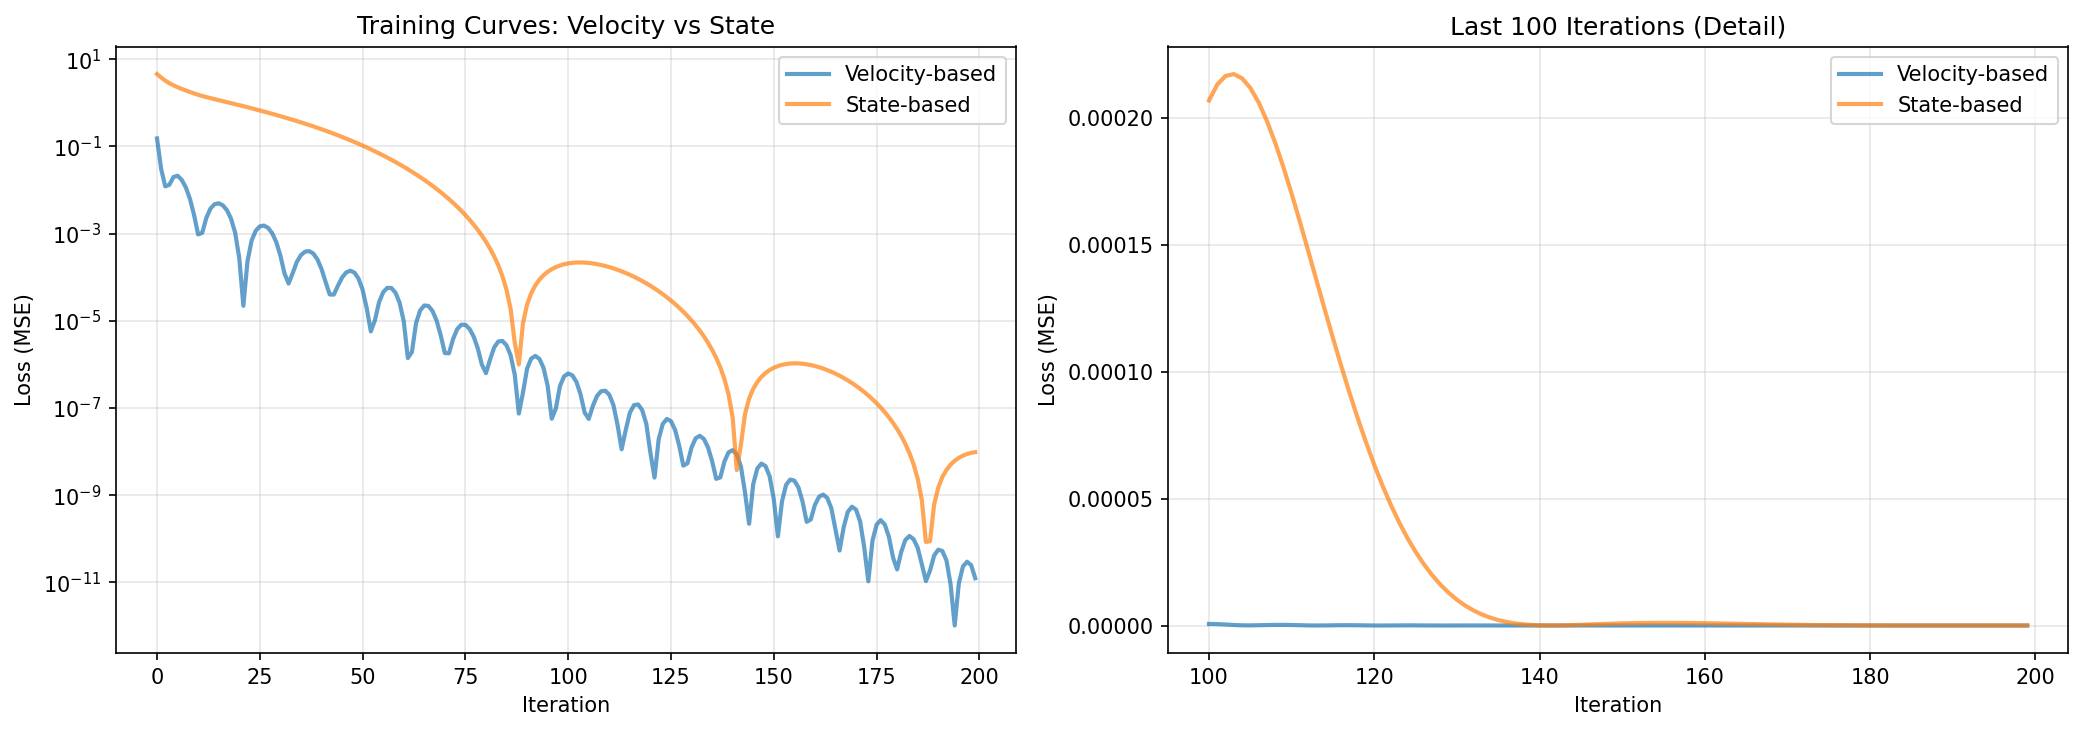
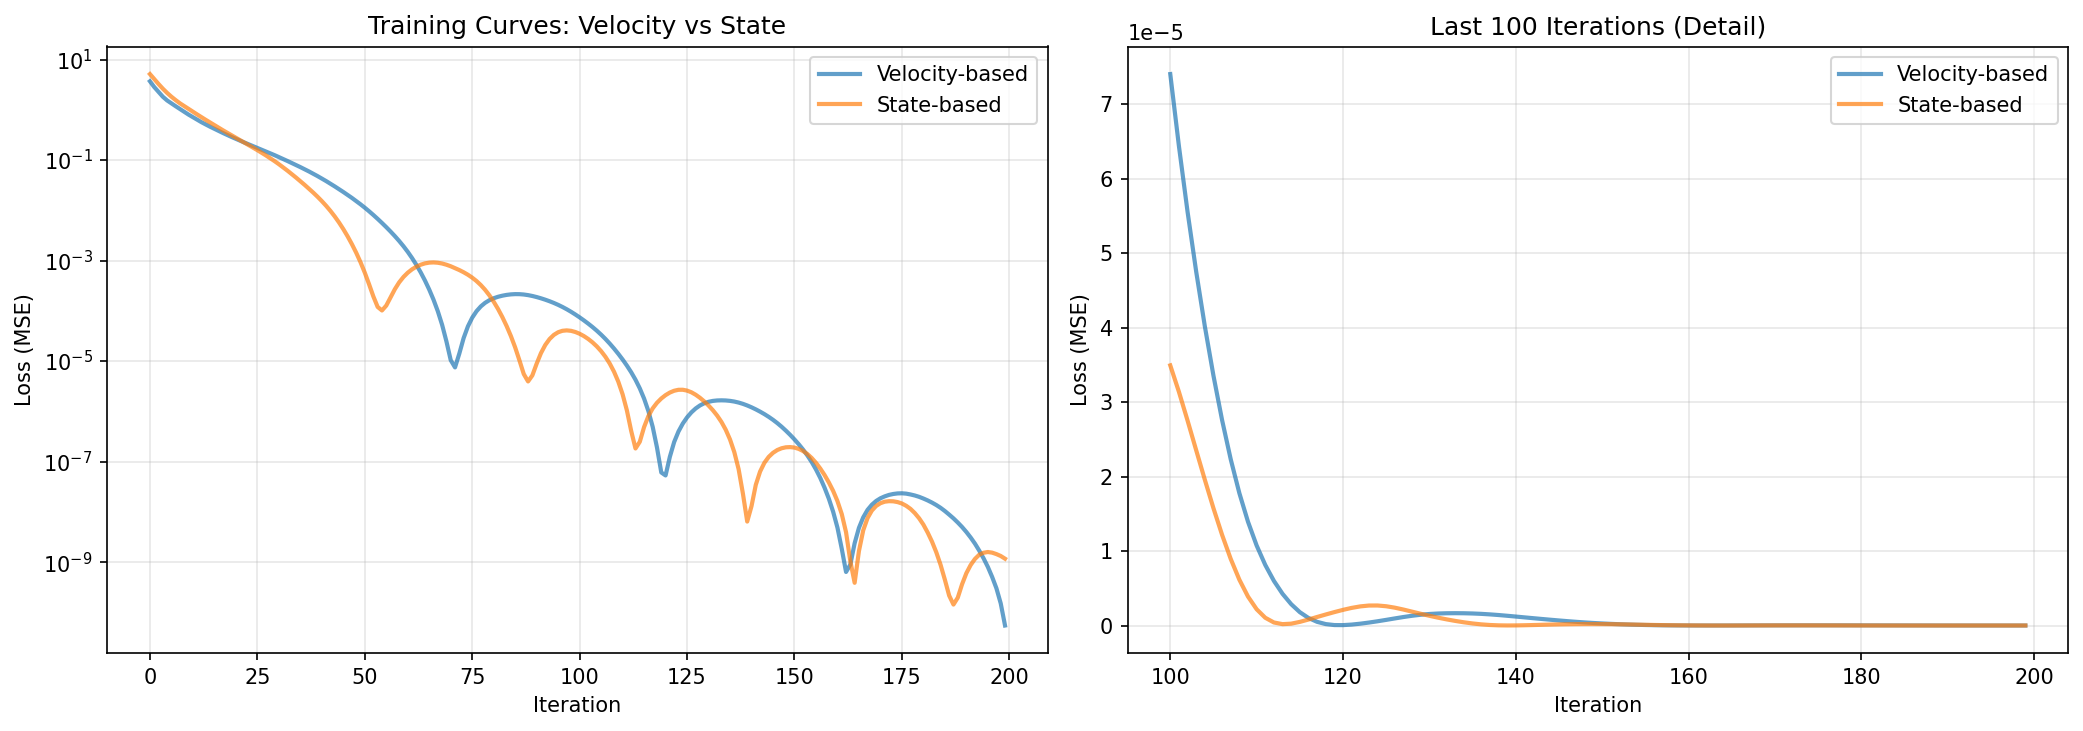
State-based complete training scripts

diff --git a/verify_results.py b/verify_results.py
@@ -1,0 +1,270 @@
+#!/usr/bin/env python3
+"""
+Verification: Are state-based results too good to be true?
+Tests on UNSEEN dt values and visualizes predictions
+"""
+
+import sys
+from pathlib import Path
+sys.path.append(str(Path(__file__).parent))
+sys.path.append(str(Path(__file__).parent / 'state_based'))
+
+import torch
+import numpy as np
+import pickle
+import matplotlib.pyplot as plt
+from state_based.state_predictor import StatePredictor
+from envs import PointMass2D
+
+def simulate_ground_truth(env, state, actions, dt):
+    """Get ground truth final state"""
+    env.reset()
+    env.particles[0]["position"] = state[:2].astype(np.float32)
+    env.particles[0]["velocity"] = state[2:].astype(np.float32)
+    num_steps = int(dt / env.dt)
+    collision_count = 0
+    
+    for step in range(num_steps):
+        old_vx, old_vy = env.state[2], env.state[3]
+        action_idx = min(step, len(actions) - 1)
+        env.step(actions[action_idx])
+        # Detect collision (velocity sign flip)
+        if np.sign(env.state[2]) != np.sign(old_vx) and abs(old_vx) > 0.1:
+            collision_count += 1
+        if np.sign(env.state[3]) != np.sign(old_vy) and abs(old_vy) > 0.1:
+            collision_count += 1
+    
+    return next_state.copy(), collision_count
+
+def main():
+    device = torch.device('cuda' if torch.cuda.is_available() else 'cpu')
+    print("="*70)
+    print("VERIFICATION: Are state-based results real?")
+    print("="*70)
+    print(f"Device: {device}\n")
+
+    # Load model
+    print("Loading state-based model...")
+    model = StatePredictor(
+        state_dim=4, action_dim=2, max_seq_len=20, hidden_dims=[64, 64, 64, 64]
+    ).to(device)
+    checkpoint = torch.load('experiments/state_based/state_best_model.pt', map_location=device)
+    model.load_state_dict(checkpoint['model_state_dict'])
+    model.eval()
+    print(f"  Loaded from epoch {checkpoint.get('epoch', '?')}\n")
+
+    # Load test data
+    print("Loading test data...")
+    with open('data/collision_test.pkl', 'rb') as f:
+        test_data = pickle.load(f)
+    print(f"  Test samples: {len(test_data)}\n")
+
+    # Check train/test overlap
+    print("Checking train/test overlap...")
+    with open('data/collision_train.pkl', 'rb') as f:
+        train_data = pickle.load(f)
+    
+    train_states = set()
+    for s in train_data[:1000]:
+        state = tuple(np.round(s['scenario']['initial_state'], 4))
+        train_states.add(state)
+    
+    overlap = 0
+    for s in test_data[:100]:
+        state = tuple(np.round(s['scenario']['initial_state'], 4))
+        if state in train_states:
+            overlap += 1
+    print(f"  Overlap in first 100 test samples: {overlap}\n")
+
+    env = PointMass2D(dt=0.01, damping=0.05)
+
+    # TEST 1: Unseen dt values
+    print("="*70)
+    print("TEST 1: Performance on UNSEEN dt values")
+    print("="*70)
+    
+    seen_dt = [0.01, 0.02, 0.04, 0.08, 0.16, 0.32, 0.64, 1.0]
+    unseen_dt = [0.03, 0.12, 0.25, 0.45, 0.75, 0.90]
+    
+    print(f"Seen during training: {seen_dt}")
+    print(f"Testing on UNSEEN: {unseen_dt}\n")
+
+    results = {}
+    
+    for dt in unseen_dt:
+        errors = []
+        collision_errors = []
+        smooth_errors = []
+        
+        for sample in test_data[:50]:
+            initial_state = sample['scenario']['initial_state']
+            force_pattern = sample['scenario']['force_pattern']
+            
+            # Get ground truth
+            true_state, collision_count = simulate_ground_truth(
+                env, initial_state, force_pattern, dt
+            )
+            
+            # Get prediction
+            state_t = torch.FloatTensor(initial_state).unsqueeze(0).to(device)
+            actions_t = torch.FloatTensor(force_pattern[:20]).unsqueeze(0).to(device)
+            time_t = torch.zeros(1, 1).to(device)
+            dt_t = torch.FloatTensor([[dt]]).to(device)
+            
+            with torch.no_grad():
+                pred_state = model(state_t, actions_t, time_t, dt_t)
+            
+            pred_np = pred_state.cpu().numpy().squeeze()
+            error = np.linalg.norm(pred_np - true_state)
+            errors.append(error)
+            
+            if collision_count > 0:
+                collision_errors.append(error)
+            else:
+                smooth_errors.append(error)
+        
+        results[dt] = {
+            'mean': np.mean(errors),
+            'std': np.std(errors),
+            'collision_mean': np.mean(collision_errors) if collision_errors else 0,
+            'smooth_mean': np.mean(smooth_errors) if smooth_errors else 0,
+            'n_collision': len(collision_errors),
+            'n_smooth': len(smooth_errors)
+        }
+        
+        print(f"dt={dt:.2f} (UNSEEN): error={results[dt]['mean']:.4f} ± {results[dt]['std']:.4f}")
+        print(f"         Collision scenarios ({results[dt]['n_collision']}): {results[dt]['collision_mean']:.4f}")
+        print(f"         Smooth scenarios ({results[dt]['n_smooth']}): {results[dt]['smooth_mean']:.4f}")
+
+    # TEST 2: Compare seen vs unseen
+    print("\n" + "="*70)
+    print("TEST 2: Seen vs Unseen dt comparison")
+    print("="*70)
+    
+    seen_errors = []
+    for dt in [0.04, 0.16, 0.64]:  # Sample of seen dt values
+        errors = []
+        for sample in test_data[:50]:
+            initial_state = sample['scenario']['initial_state']
+            force_pattern = sample['scenario']['force_pattern']
+            true_state, _ = simulate_ground_truth(env, initial_state, force_pattern, dt)
+            
+            state_t = torch.FloatTensor(initial_state).unsqueeze(0).to(device)
+            actions_t = torch.FloatTensor(force_pattern[:20]).unsqueeze(0).to(device)
+            time_t = torch.zeros(1, 1).to(device)
+            dt_t = torch.FloatTensor([[dt]]).to(device)
+            
+            with torch.no_grad():
+                pred_state = model(state_t, actions_t, time_t, dt_t)
+            
+            error = np.linalg.norm(pred_state.cpu().numpy().squeeze() - true_state)
+            errors.append(error)
+        
+        seen_errors.append(np.mean(errors))
+        print(f"dt={dt:.2f} (SEEN):   error={np.mean(errors):.4f}")
+
+    unseen_errors = [results[dt]['mean'] for dt in unseen_dt]
+    
+    print(f"\nAverage error on SEEN dt:   {np.mean(seen_errors):.4f}")
+    print(f"Average error on UNSEEN dt: {np.mean(unseen_errors):.4f}")
+    print(f"Ratio (unseen/seen): {np.mean(unseen_errors)/np.mean(seen_errors):.2f}x")
+
+    # TEST 3: Visualize predictions
+    print("\n" + "="*70)
+    print("TEST 3: Visualizing predictions vs ground truth")
+    print("="*70)
+    
+    fig, axes = plt.subplots(2, 3, figsize=(15, 10))
+    axes = axes.flatten()
+    
+    # Pick samples with collisions
+    collision_samples = []
+    for i, sample in enumerate(test_data[:100]):
+        initial_state = sample['scenario']['initial_state']
+        force_pattern = sample['scenario']['force_pattern']
+        _, collision_count = simulate_ground_truth(env, initial_state, force_pattern, 1.0)
+        if collision_count > 0:
+            collision_samples.append((i, sample, collision_count))
+        if len(collision_samples) >= 6:
+            break
+    
+    for idx, (sample_idx, sample, n_col) in enumerate(collision_samples):
+        initial_state = sample['scenario']['initial_state']
+        force_pattern = sample['scenario']['force_pattern']
+        
+        # Simulate full trajectory
+        env.state = initial_state.copy()
+        trajectory = [initial_state.copy()]
+        for step in range(100):  # 1 second
+            action_idx = min(step, len(force_pattern) - 1)
+            env.step(force_pattern[action_idx])
+            trajectory.append(env.state.copy())
+        trajectory = np.array(trajectory)
+        
+        # Get predictions at various dt
+        predictions = {}
+        for dt in [0.1, 0.25, 0.5, 0.75, 1.0]:
+            state_t = torch.FloatTensor(initial_state).unsqueeze(0).to(device)
+            actions_t = torch.FloatTensor(force_pattern[:20]).unsqueeze(0).to(device)
+            time_t = torch.zeros(1, 1).to(device)
+            dt_t = torch.FloatTensor([[dt]]).to(device)
+            
+            with torch.no_grad():
+                pred = model(state_t, actions_t, time_t, dt_t)
+            predictions[dt] = pred.cpu().numpy().squeeze()
+        
+        # Plot
+        ax = axes[idx]
+        ax.plot(trajectory[:, 0], trajectory[:, 1], 'b-', alpha=0.5, label='True trajectory')
+        ax.scatter(trajectory[0, 0], trajectory[0, 1], c='green', s=100, marker='o', label='Start')
+        ax.scatter(trajectory[-1, 0], trajectory[-1, 1], c='blue', s=100, marker='s', label='True end')
+        
+        for dt, pred in predictions.items():
+            ax.scatter(pred[0], pred[1], s=50, marker='x', label=f'Pred dt={dt}')
+        
+        ax.axhline(y=5, color='gray', linestyle='--', alpha=0.3)
+        ax.axhline(y=-5, color='gray', linestyle='--', alpha=0.3)
+        ax.axvline(x=5, color='gray', linestyle='--', alpha=0.3)
+        ax.axvline(x=-5, color='gray', linestyle='--', alpha=0.3)
+        
+        ax.set_xlim(-6, 6)
+        ax.set_ylim(-6, 6)
+        ax.set_title(f'Sample {sample_idx} ({n_col} collisions)')
+        ax.legend(fontsize=6)
+        ax.set_aspect('equal')
+    
+    plt.tight_layout()
+    plt.savefig('verification_trajectories.png', dpi=150)
+    print(f"Saved trajectory visualization to verification_trajectories.png")
+
+    # VERDICT
+    print("\n" + "="*70)
+    print("VERDICT")
+    print("="*70)
+    
+    ratio = np.mean(unseen_errors) / np.mean(seen_errors)
+    
+    if ratio < 1.5:
+        print("✅ RESULTS APPEAR GENUINE")
+        print("   Model generalizes well to unseen dt values")
+        print("   Error ratio (unseen/seen) < 1.5x")
+    elif ratio < 3.0:
+        print("⚠  PARTIAL GENERALIZATION")
+        print("   Model works on unseen dt but with degraded performance")
+        print(f"   Error ratio: {ratio:.2f}x")
+    else:
+        print("❌ POOR GENERALIZATION")
+        print("   Model may be memorizing training dt values")
+        print(f"   Error ratio: {ratio:.2f}x")
+    
+    # Check if collision scenarios are harder
+    all_collision = [results[dt]['collision_mean'] for dt in unseen_dt if results[dt]['collision_mean'] > 0]
+    all_smooth = [results[dt]['smooth_mean'] for dt in unseen_dt if results[dt]['smooth_mean'] > 0]
+    
+    if all_collision and all_smooth:
+        print(f"\nCollision vs Smooth performance:")
+        print(f"   Collision scenarios: {np.mean(all_collision):.4f}")
+        print(f"   Smooth scenarios: {np.mean(all_smooth):.4f}")
+
+if __name__ == "__main__":
+    main()

diff --git a/fix_env_state.py b/fix_env_state.py
@@ -1,0 +1,67 @@
+#!/usr/bin/env python3
+"""Fix the env.state bug in all scripts"""
+
+import re
+
+def fix_file(filepath):
+    with open(filepath, 'r') as f:
+        content = f.read()
+    
+    original = content
+    
+    # Pattern 1: Fix "env.state = state.copy()" in simulate functions
+    content = re.sub(
+        r'env\.state = state\.copy\(\)',
+        '''env.reset()
+    env.particles[0]["position"] = state[:2].astype(np.float32)
+    env.particles[0]["velocity"] = state[2:].astype(np.float32)''',
+        content
+    )
+    
+    # Pattern 2: Fix "self.env.state = initial_state.copy()"
+    content = re.sub(
+        r'self\.env\.state = initial_state\.copy\(\)',
+        '''self.env.reset()
+        self.env.particles[0]["position"] = initial_state[:2].astype(np.float32)
+        self.env.particles[0]["velocity"] = initial_state[2:].astype(np.float32)''',
+        content
+    )
+    
+    # Pattern 3: Fix "return env.state.copy()" -> use next_state
+    content = re.sub(
+        r'return env\.state\.copy\(\)',
+        'return next_state.copy()',
+        content
+    )
+    
+    # Pattern 4: Fix "return self.env.state.copy()"
+    content = re.sub(
+        r'return self\.env\.state\.copy\(\)',
+        'return next_state.copy()',
+        content
+    )
+    
+    # Pattern 5: Fix quick_test.py style
+    content = re.sub(
+        r'env\.state = state\.cpu\(\)\.numpy\(\)\.squeeze\(\)',
+        '''state_np = state.cpu().numpy().squeeze()
+    env.reset()
+    env.particles[0]["position"] = state_np[:2].astype(np.float32)
+    env.particles[0]["velocity"] = state_np[2:].astype(np.float32)''',
+        content
+    )
+    
+    if content != original:
+        with open(filepath, 'w') as f:
+            f.write(content)
+        print(f"Fixed: {filepath}")
+    else:
+        print(f"No changes: {filepath}")
+
+# Fix all relevant files
+fix_file('state_based/train_state_shortcut.py')
+fix_file('state_based/evaluate_state.py')
+fix_file('state_based/quick_test.py')
+fix_file('verify_results.py')
+
+print("\nDone! Now re-run training and evaluation.")

diff --git a/state_based/train_state_shortcut.py b/state_based/train_state_shortcut.py
@@ -77,7 +77,9 @@ class StateDataset(Dataset):
 
     def _simulate(self, initial_state, force_pattern, dt):
         """Simulate physics to get final state"""
-        self.env.state = initial_state.copy()
+        self.env.reset()
+        self.env.particles[0]["position"] = initial_state[:2].astype(np.float32)
+        self.env.particles[0]["velocity"] = initial_state[2:].astype(np.float32)
 
         num_steps = int(dt / self.env.dt)
         for step in range(num_steps):
@@ -85,7 +87,7 @@ class StateDataset(Dataset):
             action = force_pattern[action_idx]
             next_state, _, _ = self.env.step(action)
 
-        return self.env.state.copy()
+        return next_state.copy()
 
     def __len__(self):
         return len(self.samples)

diff --git a/state_based/evaluate_state.py b/state_based/evaluate_state.py
@@ -29,7 +29,9 @@ from envs import PointMass2D
 
 def simulate_ground_truth(env, state, actions, dt):
     """Simulate physics to get ground truth final state"""
-    env.state = state.copy()
+    env.reset()
+    env.particles[0]["position"] = state[:2].astype(np.float32)
+    env.particles[0]["velocity"] = state[2:].astype(np.float32)
     num_steps = int(dt / env.dt)
 
     for step in range(num_steps):
@@ -37,7 +39,7 @@ def simulate_ground_truth(env, state, actions, dt):
         action = actions[action_idx]
         next_state, _, _ = env.step(action)
 
-    return env.state.copy()
+    return next_state.copy()
 
 
 def evaluate_sequential_model(model, test_data, dt, env, device):

diff --git a/state_based/quick_test.py b/state_based/quick_test.py
@@ -29,7 +29,10 @@ from envs import PointMass2D
 def simulate_collision_scenario(env, state, actions, dt, device='cpu'):
     """Simulate physics to get ground truth final state"""
     # Set environment to initial state
-    env.state = state.cpu().numpy().squeeze()
+    state_np = state.cpu().numpy().squeeze()
+    env.reset()
+    env.particles[0]["position"] = state_np[:2].astype(np.float32)
+    env.particles[0]["velocity"] = state_np[2:].astype(np.float32)
 
     # Simulate for dt duration
     num_steps = int(dt / env.dt)
